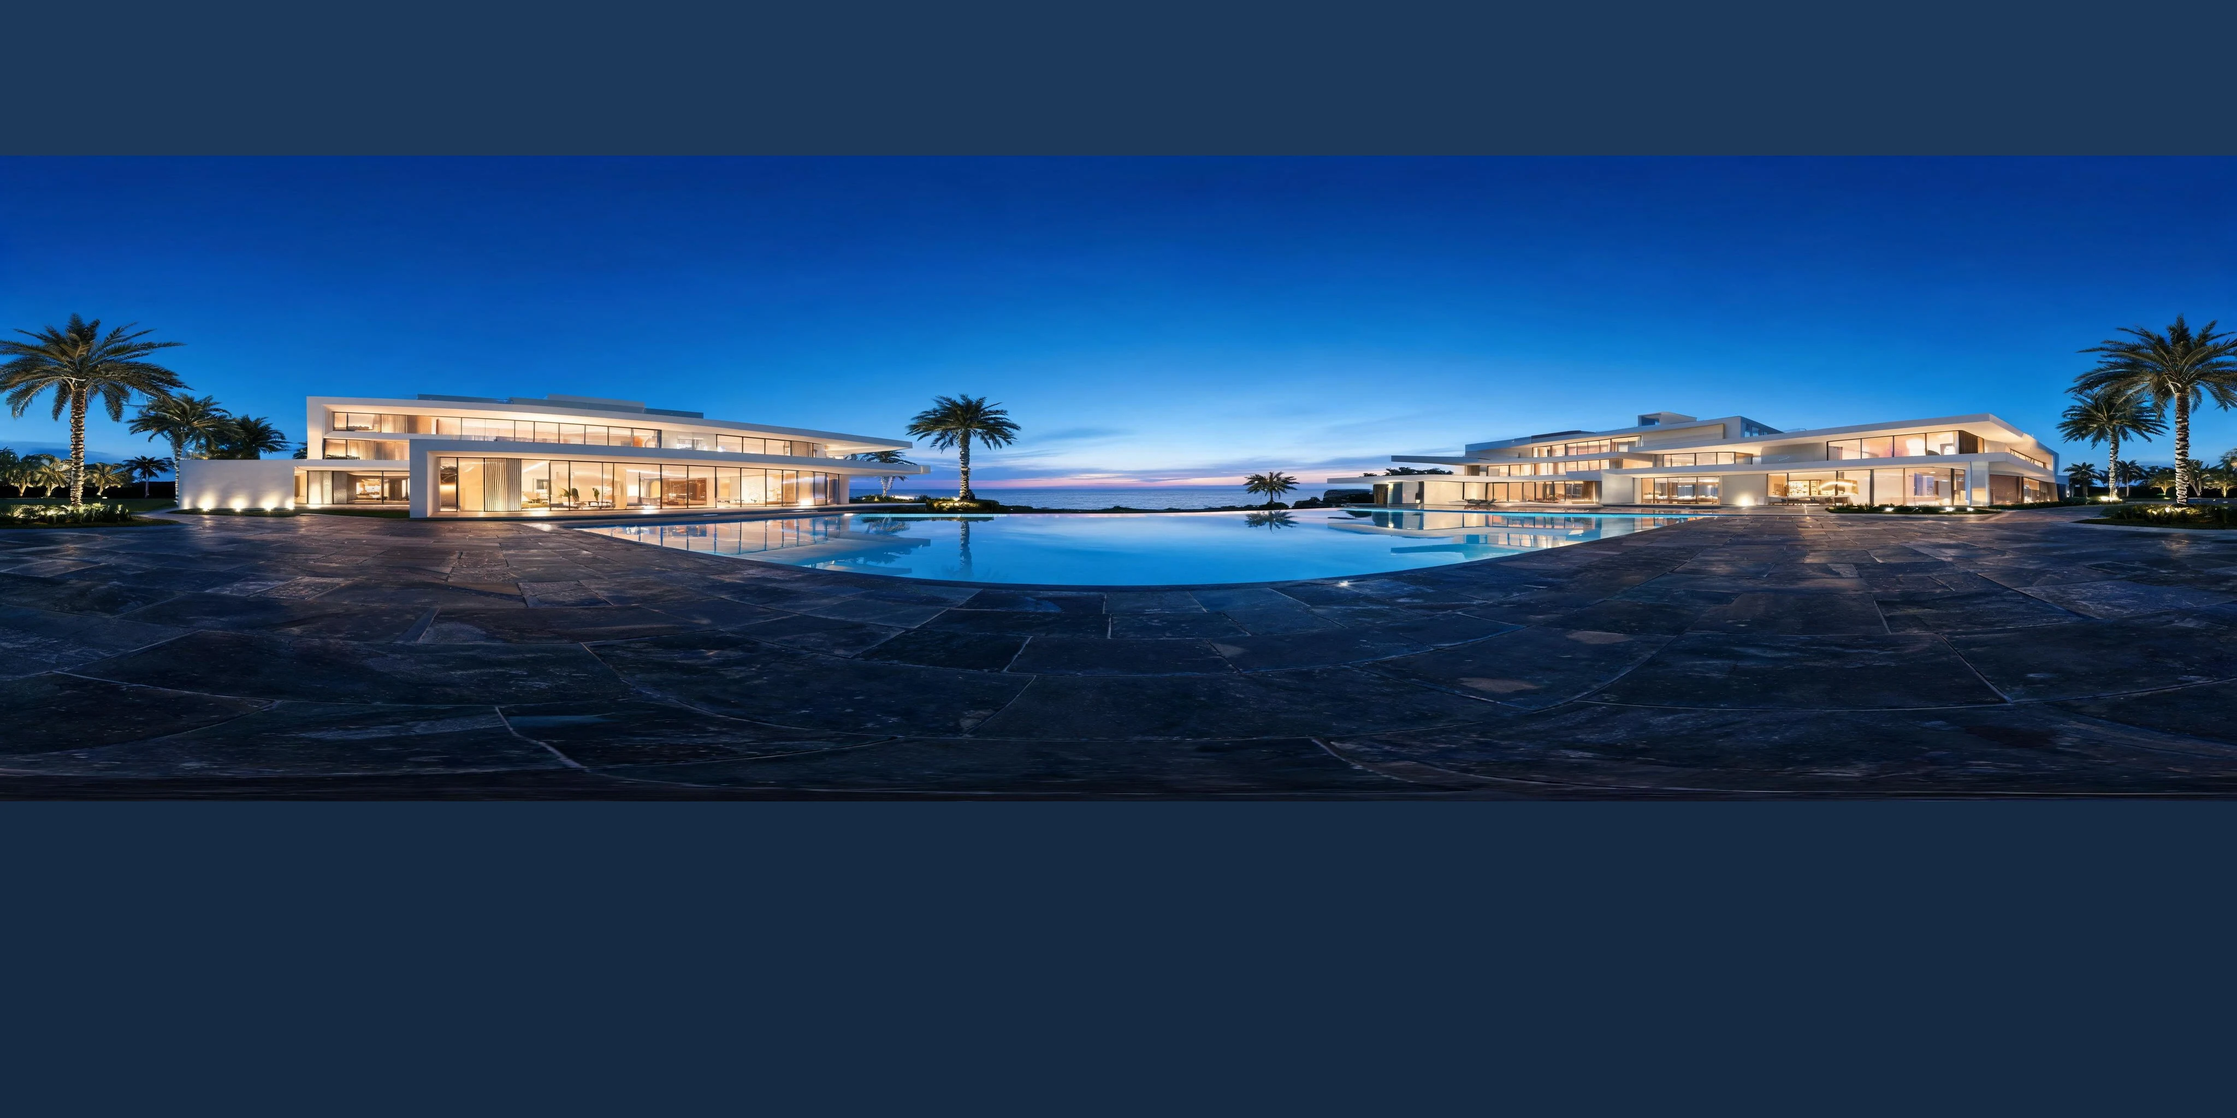
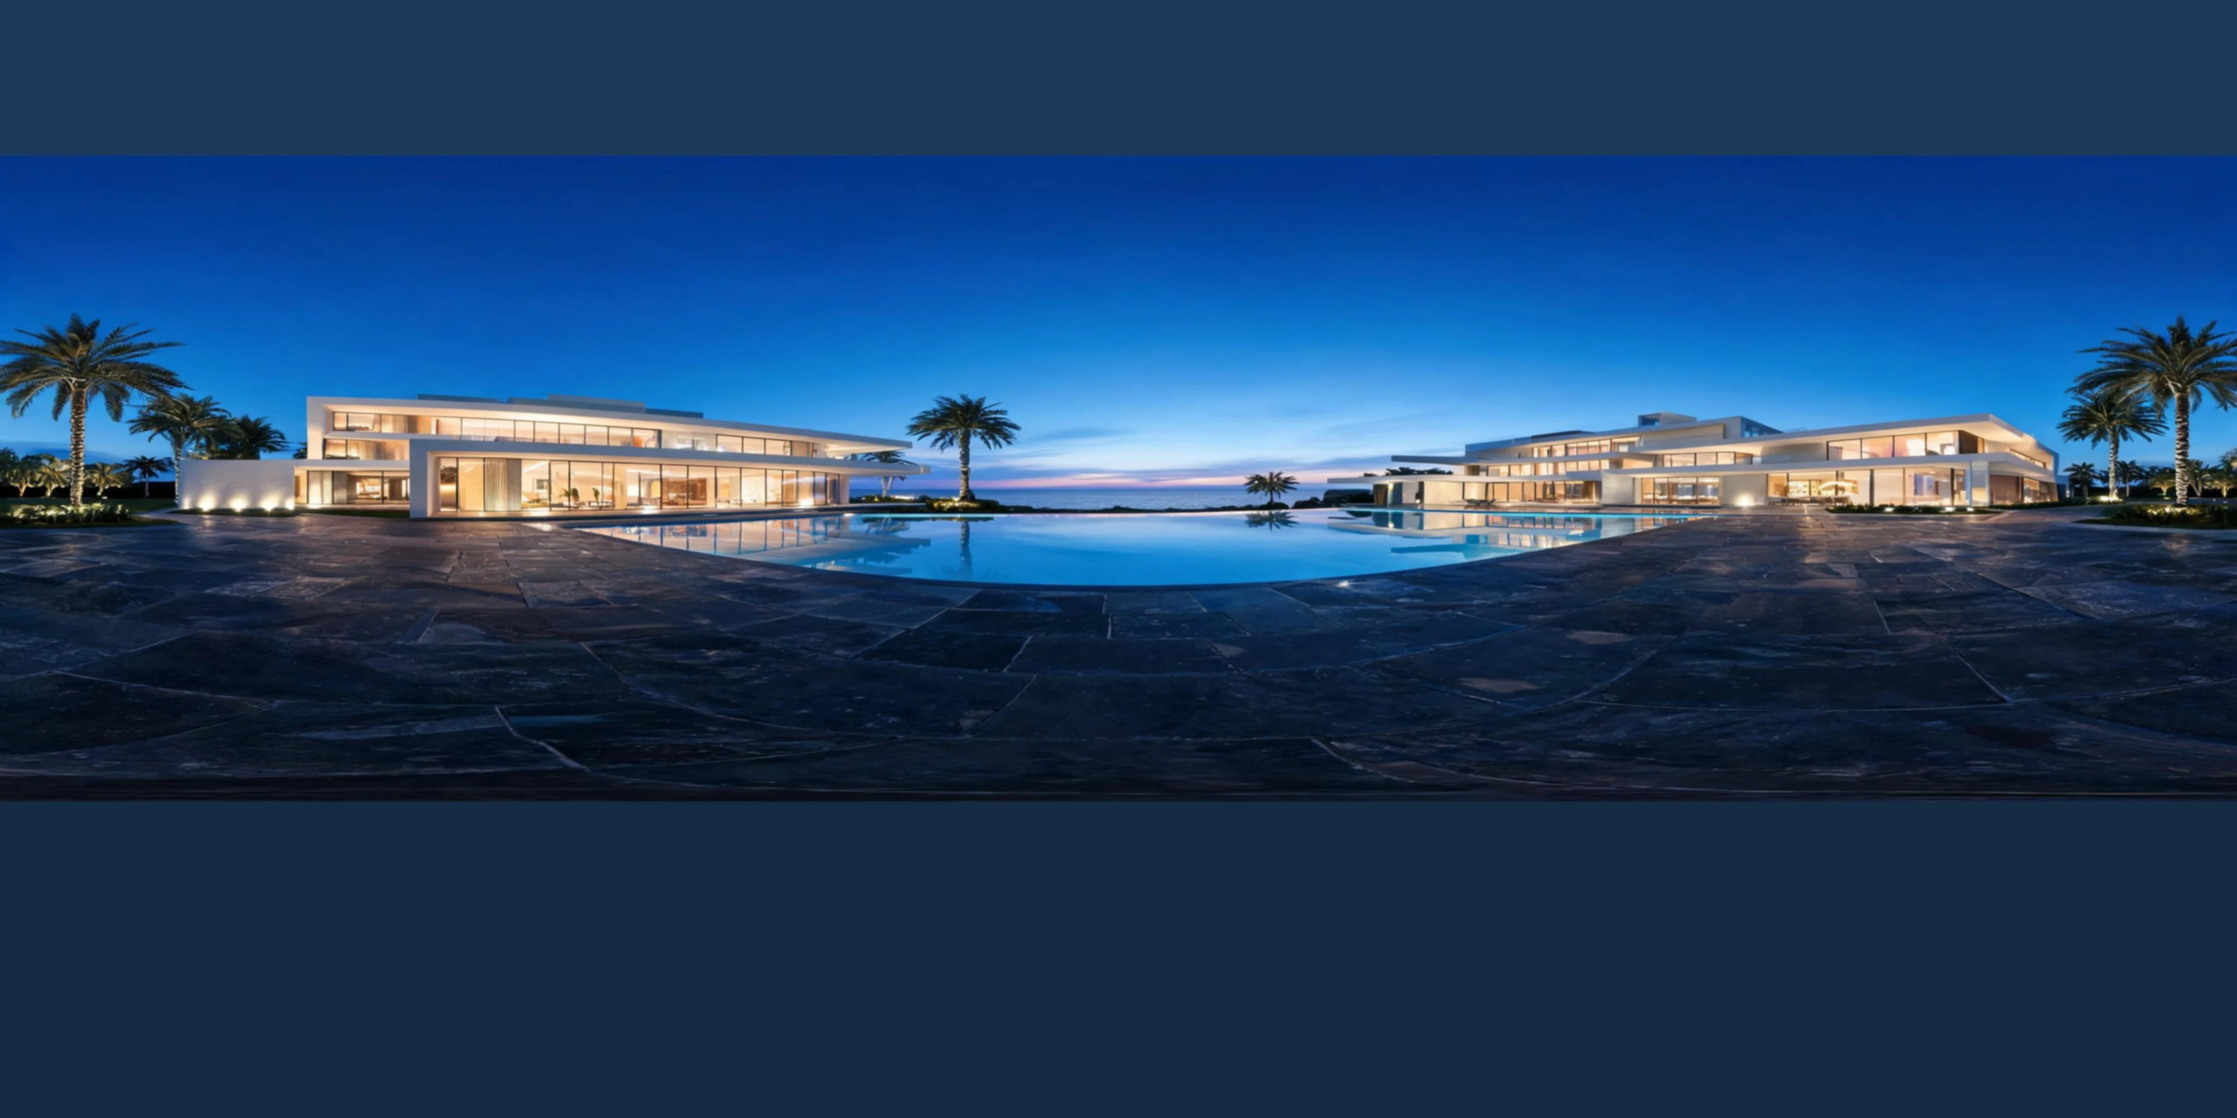
Il ripiego delle ruote si butta, e lo sfondo va fuori fuoco davvero
--- LE RUOTE DI SEGNALE ---

Sondando la scena uscivano 32 mesh di ripiego accanto a quelle vere:
GOMMA_SEGNALE, CERCHIO_SEGNALE, RAZZA_SEGNALE. Erano nascoste da sempre con
`visible = false`, che toglie un oggetto dal DISEGNO e lo lascia in tutto il
resto — nel grafo, in memoria video, e dentro ogni ciclo che percorre la scena.
`aggiorna()` scriveva una rotazione su quattro cerchi invisibili sessanta volte
al secondo.

Nascondere e' la mossa giusta finche' si potrebbe tornare indietro. Qui non si
torna: la ruota vera c'e' ed e' costruita, non caricata. Adesso si staccano e si
buttano — con le geometrie raccolte e disposte DOPO il ciclo, perche' sono
condivise fra le quattro ruote e disporle dentro le distruggerebbe per le altre
tre. Verificato: da 108 mesh a 79, zero `_SEGNALE`, quattro ruote vere.

E `vestiConModello` non c'e' piu': 156 righe che nessuno chiamava da quando la
ruota si costruisce e `ruota.glb` e' stato tolto da `public/`. Una strada che
non porta piu' da nessuna parte e che il prossimo avrebbe dovuto capire prima
di poterla ignorare.

--- LO SFONDO: IL MECCANISMO ERA SBAGLIATO, NON IL VALORE ---

`backgroundBlurriness` e' sceso tre volte per la stessa segnalazione — «la
villa legge come vetro smerigliato, non come fuori fuoco» — 0,14, 0,055, 0,035,
e la revisione continuava a vederlo.

Aveva ragione: quel parametro non e' una sfocatura. Campiona i MIP della PMREM,
cioe' una cascata di riduzioni a meta' — matematicamente una convoluzione con
[…]

diff --git a/src/scene/Ruote.ts b/src/scene/Ruote.ts
@@ -1,5 +1,4 @@
 import {
-  Box3,
   BufferAttribute,
   BufferGeometry,
   CircleGeometry,
@@ -225,7 +224,6 @@ export class Ruote {
   /** la gomma di segnale appesa a ogni cerchio, per poterla nascondere */
   private gomme = new Map<Mesh, Mesh>()
   private materialeCerchio!: MeshPhysicalMaterial
-  private materialeGomma!: MeshStandardMaterial
   private gommaCorrente: Mesh | null = null
   /** radianti percorsi: si accumula, non si azzera, o la rotazione scatta
    *  a ogni fotogramma invece di scorrere */
@@ -248,10 +246,11 @@ export class Ruote {
     // stessa ragione del cerchio: l'ambiente e' sette volte piu' forte
     gomma.envMapIntensity = 0.28
     gomma.color.setRGB(0.028, 0.028, 0.03)
-    /* IL METALLO DELLA RUOTA VERA — usato solo da `vestiConModello`.
-       Non e' il `MeshBasic` del segnale: quello e' piatto per essere sempre
-       visibile, questo deve SPECCHIARE l'ambiente come una lega lucidata,
-       perche' e' proprio il riflesso che dice «cerchio in metallo». */
+    /* IL METALLO DEL CERCHIO. Il commento diceva «usato solo da
+       `vestiConModello`», che non esiste piu': adesso lo usa il ripiego, che
+       vive il tempo che ci mette la ruota vera a costruirsi. Il ragionamento
+       qui sotto resta buono — e' costato quattro giri e una prova decisiva —
+       ma va letto sapendo che riguarda un pezzo che dura due secondi. */
     /* IL CERCHIO DEVE CATTURARE LA LUCE, non solo specchiare il buio.
        Con metallo puro e ruvidita' 0,34 la lega restituiva soltanto l'ambiente
        notturno: un anello scuro in cui le razze non si leggevano. Un cerchio in
@@ -328,7 +327,6 @@ export class Ruote {
        tangenti. Finche' non c'e' quello, il verso spazzolato lo fa la sola
        ruvidita', e va detto invece che lasciato credere. */
     this.materialeCerchio.name = 'CERCHIO_VERO'
-    this.materialeGomma = gomma
     gomma.name = 'GOMMA_SEGNALE'
 
     /* IL CERCHIO EMETTE, NON RIFLETTE — ed e' la correzione piu' importante di
@@ -460,6 +458,8 @@ export class Ruote {
   costruisci(): boolean {
     if (!this.cerchi.length) return false
     const M = materialiRuota()
+    const daButtare: Object3D[] = []
+    const geometrie = new Set<BufferGeometry>()
     for (const vecchio of this.cerchi) {
       const perno = new Group()
       const gommaVecchia = this.gomme.get(vecchio)
@@ -510,168 +510,51 @@ export class Ruote {
       perno.add(costruisciRuota(M, verso))
       this.gruppo.add(perno)
       this.ruoteVere.push(perno)
-      vecchio.visible = false
-      if (gommaVecchia) gommaVecchia.visible = false
+      /* IL RIPIEGO SI BUTTA, non si nasconde — ed era nascosto da sempre.
+         `visible = false` toglie un oggetto dal DISEGNO e lo lascia in tutto il
+         resto: nel grafo, in memoria video con la sua geometria e i suoi
+         materiali, e dentro ogni ciclo che percorre la scena. Sondando le mesh
+         dell'automobile ne uscivano 32 di ripiego accanto a quelle vere —
+         `GOMMA_SEGNALE`, `CERCHIO_SEGNALE`, `RAZZA_SEGNALE` — e `aggiorna()`
+         continuava a scrivere una rotazione su quattro cerchi che nessuno
+         guarda, sessanta volte al secondo.
+         Nascondere e' la mossa giusta finche' si potrebbe tornare indietro. Qui
+         non si torna: la ruota vera c'e', ed e' costruita, non caricata. Quindi
+         si stacca dal padre e si butta.
+         Le geometrie sono CONDIVISE fra le quattro ruote (vedi `raggiera` qui
+         sopra), quindi disporle nel ciclo le distruggerebbe per le altre tre:
+         si raccolgono e si buttano dopo, una volta sola. */
+      daButtare.push(vecchio)
+      if (gommaVecchia) daButtare.push(gommaVecchia)
     }
+    for (const o of daButtare) {
+      o.parent?.remove(o)
+      o.traverse((x) => {
+        const m = x as Mesh
+        if (m.isMesh) geometrie.add(m.geometry)
+      })
+    }
+    for (const g of geometrie) g.dispose()
+    /* e la lista dei ripieghi si svuota: `aggiorna()` la percorre a ogni
+       fotogramma, e lasciarci dentro oggetti staccati dalla scena e' il modo
+       piu' rapido di tenere in vita cio' che si e' appena buttato */
+    this.cerchi.length = 0
+    this.gomme.clear()
     return true
   }
 
-  vestiConModello(scena: Object3D) {
-    /* SI CLONA LA SCENA, NON LE GEOMETRIE.
-       Il primo tentativo copiava `m.geometry` e ci cuoceva dentro `matrixWorld`:
-       con una geometria QUANTIZZATA (`KHR_mesh_quantization`, che gltfpack usa)
-       la scatola d'ingombro tornava vuota — diametro zero — mentre i vertici
-       c'erano tutti, ventunmila. Clonare l'oggetto invece della geometria si
-       porta dietro le trasformazioni come sono, senza toccare i vertici, e la
-       misura torna quella vera. */
-    const base = scena.clone(true)
-    base.updateWorldMatrix(true, true)
-    const box = new Box3().setFromObject(base)
-    const dim = new Vector3(); box.getSize(dim)
-    const diametro = Math.max(dim.x, dim.y, dim.z)
-    if (!(diametro > 0)) return false
+  /* `vestiConModello` NON C'E' PIU' — centosessanta righe che nessuno chiamava.
+     Innestava un modello di ruota caricato da `public/modelli/ruota.glb` al
+     posto del ripiego: misurava la scatola d'ingombro, ne ricavava la scala,
+     clonava la scena e la posava sui quattro archi. Era codice buono e ha
+     smesso di servire il giorno in cui la ruota ha cominciato a COSTRUIRSI
+     (vedi `scene/RuotaVera.ts`): quel GLB erano 28.700 triangoli di rumore, e
+     il file e' stato tolto da `public/` perche' nessuno lo chiedeva piu'.
+     Restava la funzione, senza chiamanti e senza un file da caricare — cioe'
+     una strada che non porta piu' da nessuna parte e che il prossimo che passa
+     avrebbe dovuto capire prima di poterla ignorare.
+     Sta nella storia di git, che e' dove le cose tolte si ritrovano davvero. */
 
-    /* LA MISURA DECIDE LA SCALA: il modello arriva a diametro qualunque e deve
-       diventare la gomma che c'era. A occhio si finisce con una ruota che
-       affonda nel piano o galleggia sopra. */
-    /* +18% DI DIAMETRO, e il revisore ha ragione sul perche'.
-       La ruota tarata sul raggio della gomma di SEGNALE risultava piccola
-       rispetto alla carena: su una hypercar la ruota riempie il passaruota, e
-       una ruota piccola dentro un arco grande e' il segnale piu' immediato di
-       "modello 3D non finito". `RAGGIO_GOMMA` restava buono per un anello
-       piatto, non per una ruota vera con spessore. */
-    const fattore = (RAGGIO_GOMMA * 2 * 1.18) / diametro
-    const centro = new Vector3(); box.getCenter(centro)
-
-    /* GOMMA E CERCHIO SONO LA STESSA MESH e si dividono per RAGGIO: oltre il
-       78% c'e' la spalla del pneumatico, dentro razze, disco e mozzo. Senza la
-       divisione si ottiene o un pneumatico cromato o un cerchio di gomma. */
-    const SOGLIA = 0.78
-    /* SI RACCOLGONO PRIMA, POI SI MODIFICA.
-       Aggiungere un figlio DENTRO `traverse` significa modificare l'albero che
-       si sta percorrendo: three lo visita a sua volta, la divisione gira sul
-       pezzo appena creato e il risultato e' che non si divide niente — tutta
-       la ruota restava metallo, centoquattordicimila triangoli in un materiale
-       solo, mentre la stessa soglia provata a freddo sullo stesso file separa
-       9.597 triangoli di pneumatico da 19.085 di cerchio. */
-    const daDividere: Mesh[] = []
-    base.traverse((o) => { if ((o as Mesh).isMesh) daDividere.push(o as Mesh) })
-    for (const m of daDividere) {
-      m.castShadow = true
-      const g = m.geometry
-      const pos = g.getAttribute('position')
-      const idx = g.getIndex()
-      if (!pos || !idx) { m.material = this.materialeCerchio; continue }
-      const dentro: number[] = []
-      const fuori: number[] = []
-      const c = new Vector3()
-      g.computeBoundingBox()
-      g.boundingBox!.getCenter(c)
-      /* IL RAGGIO SI PRENDE DALLA GEOMETRIA, NON DALLA SCATOLA DEL MONDO.
-         Prima usavo l'ingombro mondiale diviso per la scala del nodo, mentre i
-         vertici li leggo in coordinate LOCALI: due sistemi diversi, la soglia
-         non veniva mai superata e TUTTA la ruota finiva metallo — pneumatico
-         cromato, centoquattordicimila triangoli in un materiale solo. E' lo
-         stesso errore del montaggio, in piccolo: si misura dove si legge. */
-      const bs = new Vector3()
-      g.boundingBox!.getSize(bs)
-      const raggioMax = Math.max(bs.y, bs.z) / 2
-      for (let t = 0; t < idx.count; t += 3) {
-        const a0 = idx.getX(t), a1 = idx.getX(t + 1), a2 = idx.getX(t + 2)
-        let r = 0
-        for (const v of [a0, a1, a2]) {
-          const y = pos.getY(v) - c.y
-          const z = pos.getZ(v) - c.z
-          r += Math.sqrt(y * y + z * z)
-        }
-        r /= 3
-        ;(r > raggioMax * SOGLIA ? fuori : dentro).push(a0, a1, a2)
-      }
-      if (!fuori.length || !dentro.length) { m.material = this.materialeCerchio; continue }
-      const g2 = g.clone(); g2.setIndex(fuori)
-      const gomma = new Mesh(g2, this.materialeGomma)
-      gomma.castShadow = true
-      m.add(gomma)
-      const g1 = g.clone(); g1.setIndex(dentro)
-      m.geometry = g1
-      m.material = this.materialeCerchio
-    }
-
-    /* LA LARGHEZZA VA RIPORTATA A QUELLA CHE C'ERA, e non e' un dettaglio.
-       Il modello e' largo 0,353 su un diametro di 0,997: portato al diametro
-       della gomma diventa largo ventun centimetri, DUE VOLTE gli undici del
-       pneumatico di segnale. Un pneumatico due volte piu' largo, per giunta
-       centrato dove stava un anello PIATTO, esce dalla carena — ed e' quello
-       che si vedeva: le ruote sporgevano oltre il fianco. */
-    const larghezzaModello = Math.min(dim.x, dim.y, dim.z) * fattore
-    /* PNEUMATICO PIU' SPESSO: 0,145 dava una ruota sottile, "senza massa".
-       Una gomma da hypercar e' larga, ed e' la larghezza che le da' peso. */
-    const LARGHEZZA_VOLUTA = 0.205
-    const schiaccia = LARGHEZZA_VOLUTA / larghezzaModello
-
-    for (const vecchio of this.cerchi) {
-      const copia = base.clone(true)
-      copia.position.sub(centro)
-      /* si stringe lungo il MOZZO (l'asse X del modello), non in altezza:
-         il diametro deve restare quello della gomma che c'era */
-      copia.scale.x = schiaccia
-      const contenitore = new Group()
-      /* L'ASSE SI MISURA, NON SI INDOVINA: la scatola dice 0,353 x 0,997 x
-         0,995, quindi il mozzo del modello e' X mentre nella scena gira
-         attorno a Z. Un quarto di giro attorno a Y porta X su Z; con la
-         rotazione sbagliata la ruota compariva di taglio, una lama nera. */
-      contenitore.rotation.y = Math.PI / 2
-      contenitore.scale.setScalar(fattore)
-      contenitore.add(copia)
-      const perno = new Group()
-      /* SI CENTRA SULLA GOMMA, NON SULL'ANELLO. L'anello di segnale e' una
-         superficie piatta appoggiata al BORDO ESTERNO della ruota: mettere li'
-         il centro di un pneumatico che ha spessore vero lo spinge fuori di
-         mezza larghezza. Il riferimento giusto e' il cilindro della gomma, che
-         un centro ce l'ha davvero. */
-      const gommaVecchia = this.gomme.get(vecchio)
-      perno.position.copy(gommaVecchia ? gommaVecchia.position : vecchio.position)
-      /* LA RUOTA RIENTRA NELL'ARCO, e non e' una rifinitura: e' cio' che la
-         attacca alla vettura.
-         Le ruote di segnale erano spinte in FUORI di dodici centimetri
-         (`SPORGENZA`) apposta, perche' un anello piatto si vede solo se sporge
-         dal fianco. Una ruota vera messa nello stesso punto sporge per intero e
-         legge come un pezzo appiccicato accanto alla carrozzeria: questa e' una
-         streamliner a ruote CARENATE, la carena deve coprirne una parte.
-         Si rientra della sporgenza e di mezza larghezza, cosi' il fianco della
-         carena passa sopra al pneumatico invece di finirgli accanto. */
-      const verso = perno.position.z < 0 ? -1 : 1
-      /* SI RIENTRA DELLA SOLA SPORGENZA, non di piu'.
-         Rientrando anche di mezza larghezza la ruota finiva SOTTO il fianco e
-         il disegno delle razze spariva: restava un anello scuro. Rientrando
-         della sola sporgenza il centro torna sull'arco — che e' dove sta la
-         ruota di un'automobile — e la faccia del cerchio resta in vista. */
-      /* PIU' VERSO L'ESTERNO, quasi a filo carena.
-         Rientrando dell'intera sporgenza la ruota finiva sotto il fianco e
-         sembrava staccata dall'altro lato: su una hypercar la ruota sta quasi
-         A FILO della carrozzeria. Si rientra di due terzi, non di tutto. */
-      perno.position.z -= verso * SPORGENZA * 0.62
-      /* L'IMPRONTA A TERRA, ottenuta AFFONDANDO invece che schiacciando.
-         Un pneumatico perfettamente circolare che tocca il suolo in UN PUNTO
-         e' la firma piu' riconoscibile del render amatoriale: una gomma vera
-         si deforma sotto il peso e appoggia su una superficie.
-         La cura ovvia — schiacciare i vertici bassi di 8-12 mm — qui sarebbe
-         SBAGLIATA, e la ragione e' che queste ruote GIRANO: un appiattimento
-         cotto nella geometria girerebbe con loro, e si vedrebbe una gomma
-         ovale che rotola. Affondare la ruota di 11 mm nel piano da' la stessa
-         lettura — il pavimento taglia il pneumatico e l'appoggio diventa una
-         superficie — e resta corretta a ruota ferma e a ruota in moto.
-         Undici millimetri e non venti: e' la deflessione di un pneumatico
-         ribassato sotto il peso di una vettura, non una gomma a terra. */
-      perno.position.y -= 0.011
-      perno.add(contenitore)
-      this.gruppo.add(perno)
-      this.ruoteVere.push(perno)
-      vecchio.visible = false
-      if (gommaVecchia) gommaVecchia.visible = false
-    }
-    return true
-  }
 
   /** @param velocita 0..1: la stessa che guida il tachimetro */
   aggiorna(velocita: number, dt: number) {
@@ -682,7 +565,9 @@ export class Ruote {
     this.angolo += velocita * dt * 14
     // Z e' l'asse del mozzo: e' l'unico giro che non deforma il cerchio,
     // perche' e' perpendicolare al suo piano
-    for (const c of this.cerchi) c.rotation.z = this.angolo
+    /* SOLO LE RUOTE VERE. `this.cerchi` conteneva i ripieghi, che dopo
+       `costruisci()` non esistono piu' — e finche' sono esistiti questa riga
+       scriveva una rotazione su quattro oggetti invisibili a ogni fotogramma. */
     for (const r of this.ruoteVere) r.rotation.z = this.angolo
   }
 }

diff --git a/src/scene/Panorama.ts b/src/scene/Panorama.ts
@@ -533,12 +533,41 @@ export async function montaPanorama(
      l'unica cosa che rendeva fotografica la scena. La sfocatura deve staccare
      il soggetto, non cancellare cio' da cui lo stacca — il colonnato deve
      restare leggibile come colonnato. */
-/* 0,035 E NON 0,055. A 0,055 la villa perdeva l'architettura: non si
-     distinguevano piu' i piani, le finestre, le palme. Una sfocatura troppo
-     forte legge come VETRO SMERIGLIATO, non come fuori fuoco — la sfocatura di
-     un obiettivo allarga i bordi ma ne conserva la struttura. Il bersaglio e'
-     «morbida ma leggibile»: si deve capire che e' una villa. */
-  scena.backgroundBlurriness = 0.035
+/* ZERO — E IL MECCANISMO ERA SBAGLIATO, NON IL VALORE.
+     Questo numero e' sceso tre volte, sempre per la stessa segnalazione: «la
+     villa legge come vetro smerigliato, non come fuori fuoco». 0,14, poi
+     0,055, poi 0,035 — e la revisione continuava a vedere il vetro smerigliato.
+     Aveva ragione, e il motivo e' che `backgroundBlurriness` non e' una
+     sfocatura: campiona i MIP della PMREM, cioe' una cascata di riduzioni a
+     meta'. E' matematicamente una convoluzione con un nucleo a piramide,
+     ripetuta — che e' esattamente il modello di una superficie ruvida, cioe'
+     del vetro smerigliato. Non e' un'approssimazione del fuori fuoco: e' la
+     cosa giusta per un'altra domanda.
+     Un fuori fuoco e' una GAUSSIANA (o un disco, se si vuole il bokeh vero):
+     allarga i bordi conservandone la struttura, invece di mescolarli. A
+     qualunque valore, un mip blur non puo' fare quello.
+     Quindi la sfocatura si cuoce nel file, una volta, con una gaussiana vera a
+     sigma 1,35 sui 4096 px del panorama.
+
+     IL SIGMA VA CONTATO IN PIXEL DI SCHERMO, non di sorgente, e al primo giro
+     l'ho sbagliato. A sigma 3,5 la villa spariva del tutto: il panorama copre
+     360 gradi in 4096 px, la hero ne inquadra una quarantina — cioe' 455 px di
+     sorgente stirati su 1200 di schermo, un ingrandimento di 2,6. Sigma 3,5
+     diventava nove pixel a schermo. 1,35 sulla sorgente fa i 3,5 veri, che e'
+     il fuori fuoco di un obiettivo lungo su un fondale a quella distanza.
+     L'originale nitido sta in `texture-sorgente/corte_pano_nitido.webp`.
+
+     E COSTA MENO DI QUANTO COSTAVA. Un'immagine sfocata non ha alte frequenze,
+     e le alte frequenze sono quasi tutto quello che un codificatore paga:
+     491 kB -> 228 kB. Duecentosessantatre kilobyte in meno sul percorso critico,
+     su un file che e' il secondo per peso. La cura di un difetto visivo che
+     alleggerisce e' rara abbastanza da meritare di essere scritta.
+
+     NON TOCCA LA LUCE: l'ambiente nasce da `corte_pano_ambiente.webp`, che e'
+     un altro file e resta nitido. La divisione fra «cio' che si vede dietro» e
+     «cio' che la carrozzeria specchia» regge, ed e' quella che rende possibile
+     questa cura. */
+  scena.backgroundBlurriness = 0
   scena.environmentIntensity = 1.0
   /* NON TORNA PIU' LA FOTOGRAFIA. Tornava il fondo, e adesso quando questa
      funzione finisce il fondo non e' ancora arrivato: chi lo volesse dovrebbe
